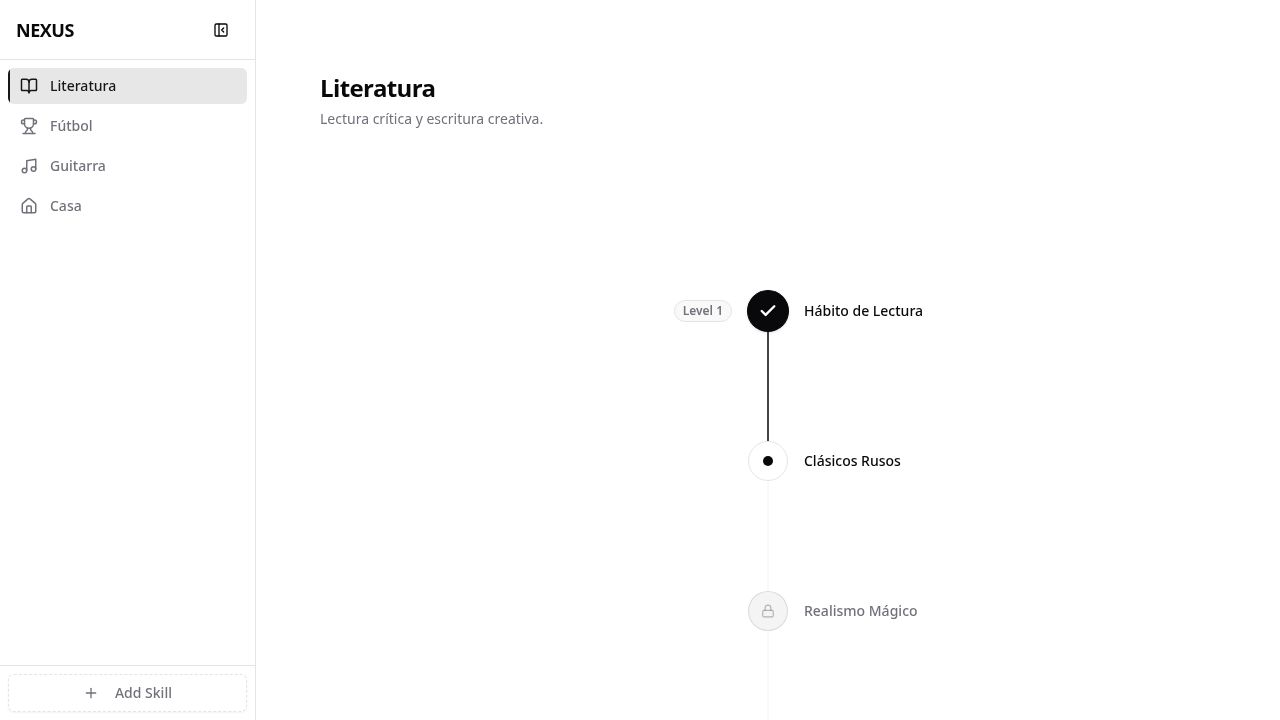
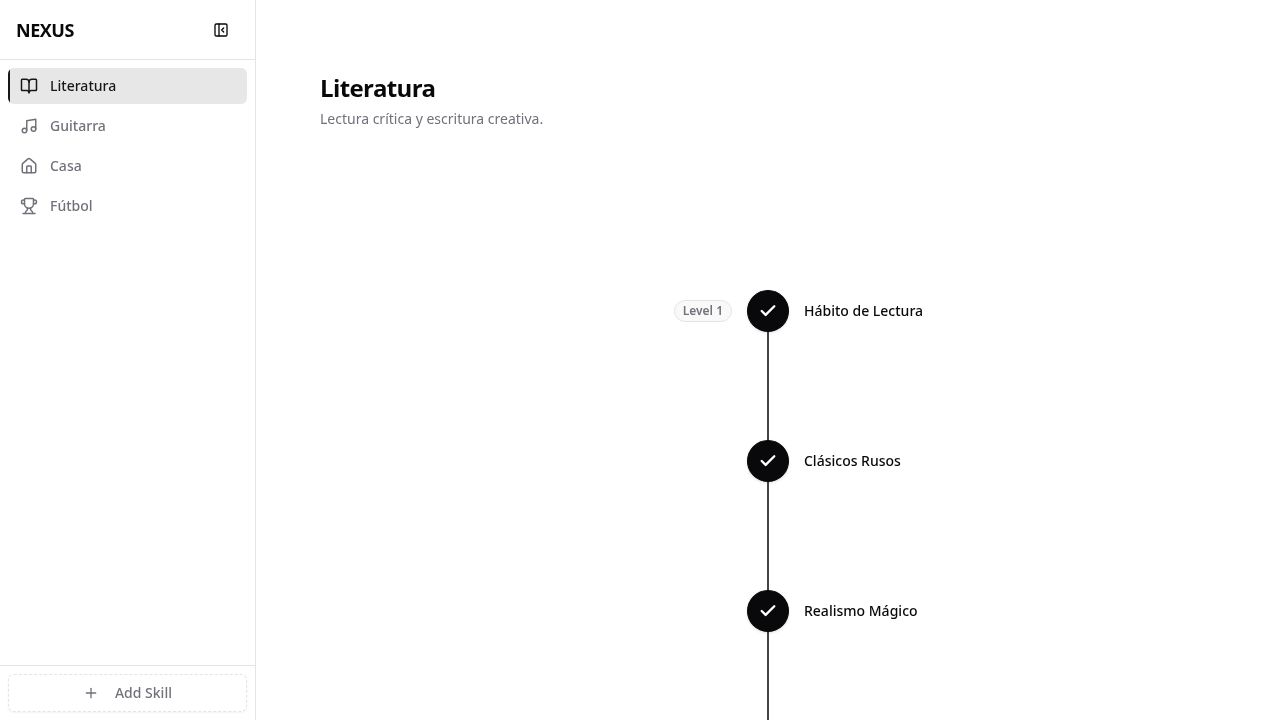
Add skill progression limits and visual level markers
Introduce `levelPosition` and `isFinalNode` fields to the `skills` table in the database schema. Update `server/storage.ts` to implement `countSkillsInLevel` and modify `createSkill` to auto-assign `levelPosition` (1-5) and `isFinalNode`. The `server/routes.ts` now enforces the 5-skill limit per level before skill creation.

Replit-Commit-Author: Agent
Replit-Commit-Session-Id: f9ffa58a-5700-4f0b-8435-3b2fa830cdf1
Replit-Commit-Checkpoint-Type: intermediate_checkpoint
Replit-Commit-Event-Id: 0c657ff5-4eca-4bac-a857-92096aa5cf14
Replit-Commit-Screenshot-Url: https://storage.googleapis.com/screenshot-production-us-central1/96775514-c2a0-4fe9-b097-1f2c5aaa07d0/f9ffa58a-5700-4f0b-8435-3b2fa830cdf1/I2oBEt3
Replit-Helium-Checkpoint-Created: true

diff --git a/server/routes.ts b/server/routes.ts
@@ -62,7 +62,24 @@ export async function registerRoutes(
   app.post("/api/skills", async (req, res) => {
     try {
       const validatedSkill = insertSkillSchema.parse(req.body);
-      const skill = await storage.createSkill(validatedSkill);
+      
+      const currentCount = await storage.countSkillsInLevel(validatedSkill.areaId, validatedSkill.level);
+      
+      if (currentCount >= 5) {
+        res.status(400).json({ message: "Este nivel ya tiene 5 nodos. Completa el nodo final para desbloquear el siguiente nivel." });
+        return;
+      }
+      
+      const levelPosition = currentCount + 1;
+      const isFinalNode = levelPosition === 5 ? 1 : 0;
+      
+      const skillWithPosition = {
+        ...validatedSkill,
+        levelPosition,
+        isFinalNode: isFinalNode as 0 | 1,
+      };
+      
+      const skill = await storage.createSkill(skillWithPosition);
       res.status(201).json(skill);
     } catch (error: any) {
       const validationError = fromError(error);

diff --git a/server/storage.ts b/server/storage.ts
@@ -1,4 +1,4 @@
-import { eq } from "drizzle-orm";
+import { eq, and } from "drizzle-orm";
 import { db } from "./db";
 import { type Area, type Skill, type InsertArea, type InsertSkill, areas, skills } from "@shared/schema";
 
@@ -16,6 +16,7 @@ export interface IStorage {
   createSkill(skill: InsertSkill): Promise<Skill>;
   updateSkill(id: string, skill: Partial<InsertSkill>): Promise<Skill | undefined>;
   deleteSkill(id: string): Promise<void>;
+  countSkillsInLevel(areaId: string, level: number): Promise<number>;
 }
 
 export class DbStorage implements IStorage {
@@ -66,6 +67,13 @@ export class DbStorage implements IStorage {
 
   async deleteSkill(id: string): Promise<void> {
     await db.delete(skills).where(eq(skills.id, id));
+  }
+
+  async countSkillsInLevel(areaId: string, level: number): Promise<number> {
+    const result = await db.select().from(skills).where(
+      and(eq(skills.areaId, areaId), eq(skills.level, level))
+    );
+    return result.length;
   }
 }
 

diff --git a/shared/schema.ts b/shared/schema.ts
@@ -25,6 +25,7 @@ export const skills = pgTable("skills", {
   manualLock: integer("manual_lock").$type<0 | 1>().default(0),
   isFinalNode: integer("is_final_node").$type<0 | 1>().default(0),
   level: integer("level").notNull().default(1),
+  levelPosition: integer("level_position").notNull().default(1),
 });
 
 export const insertAreaSchema = createInsertSchema(areas);
